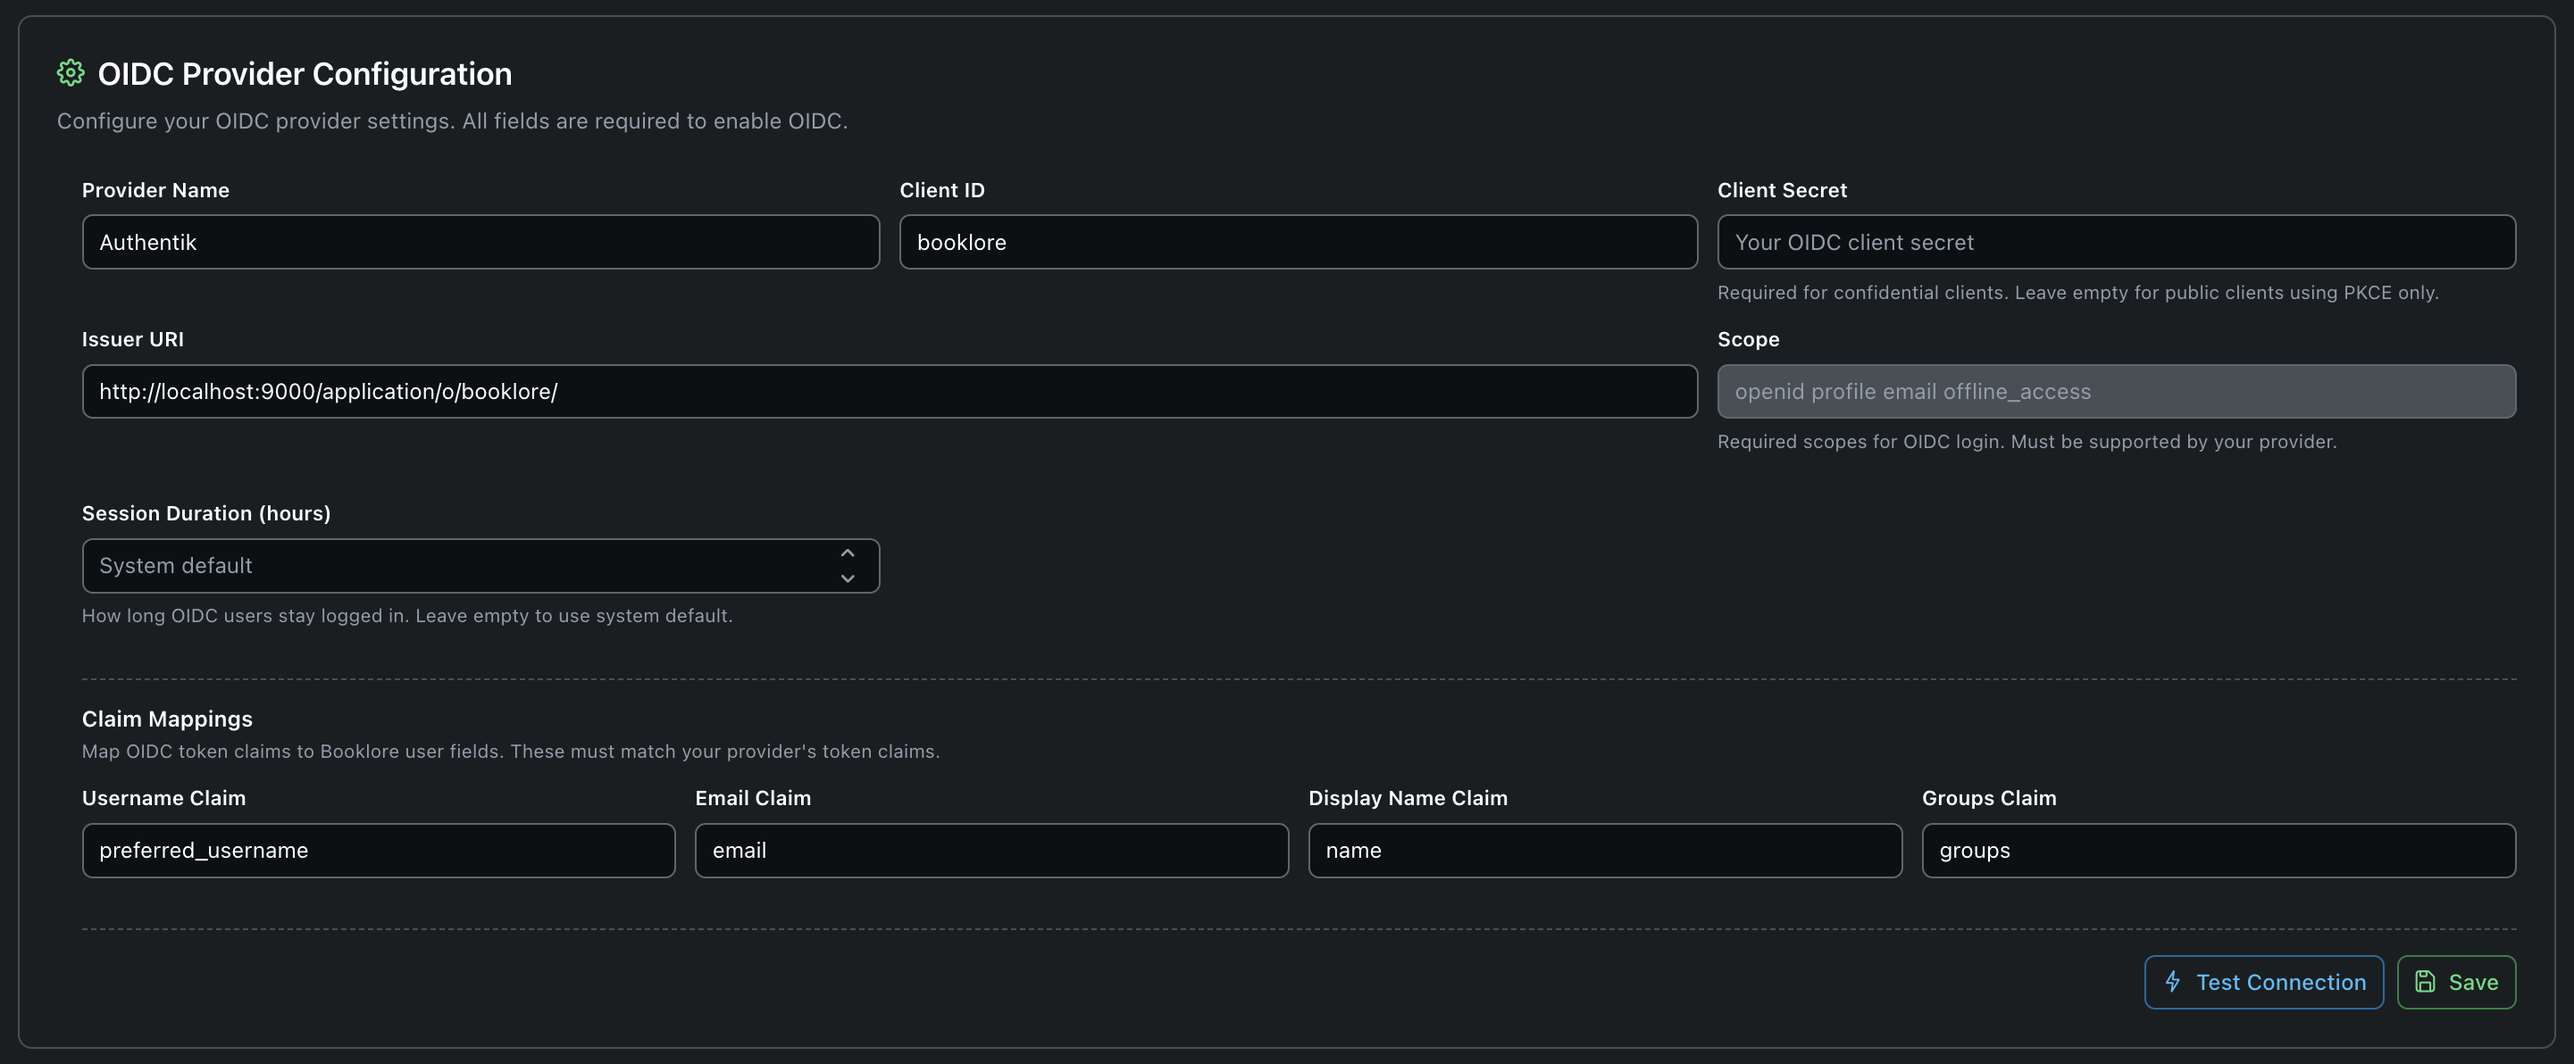
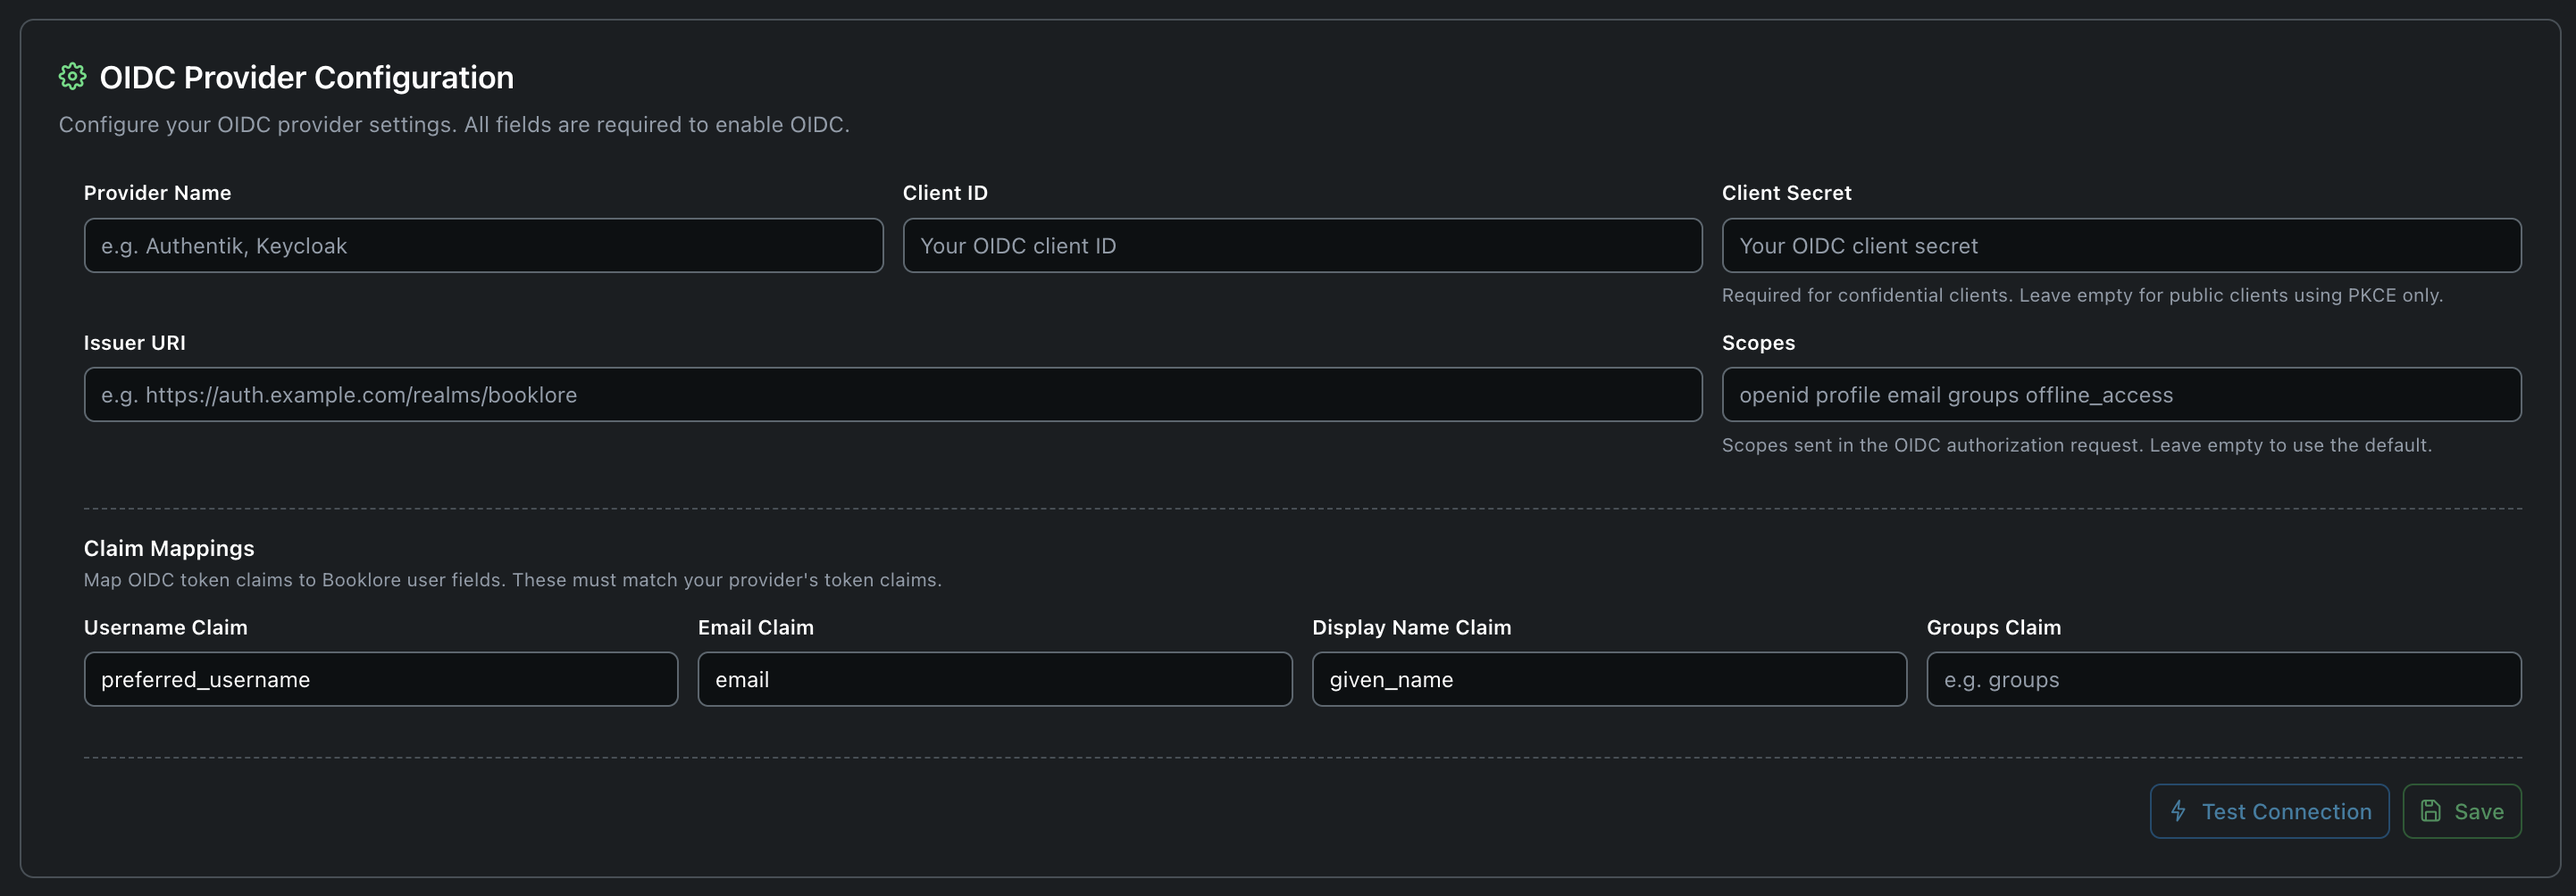
Update OIDC docs for configurable scopes field

diff --git a/docs/authentication/oidc-settings.md b/docs/authentication/oidc-settings.md
@@ -43,7 +43,7 @@ This is where you connect Booklore to your identity provider. You'll need to cre
 | **Client ID** | The client/application ID from your provider | Copy this exactly from your provider's dashboard. |
 | **Client Secret** | The client secret, if your provider requires one | Leave empty for **public clients** (most common for self-hosted setups using PKCE). Only needed for **confidential clients**. |
 | **Issuer URI** | Your provider's OIDC issuer URL | Booklore appends `/.well-known/openid-configuration` to this URL to auto-discover all endpoints. |
-| **Scope** | Space-separated list of OIDC scopes | The default `openid profile email offline_access` works for most providers. |
+| **Scopes** | Space-separated list of OIDC scopes | Defaults to `openid profile email groups offline_access` if left empty. For Microsoft Entra ID, use `openid profile email offline_access` (without `groups`). |
 | **Session Duration** | How long OIDC sessions last (in hours) | Leave on "System default" unless you want OIDC sessions to differ from local ones. |
 
 :::tip[Public vs. Confidential Clients]
